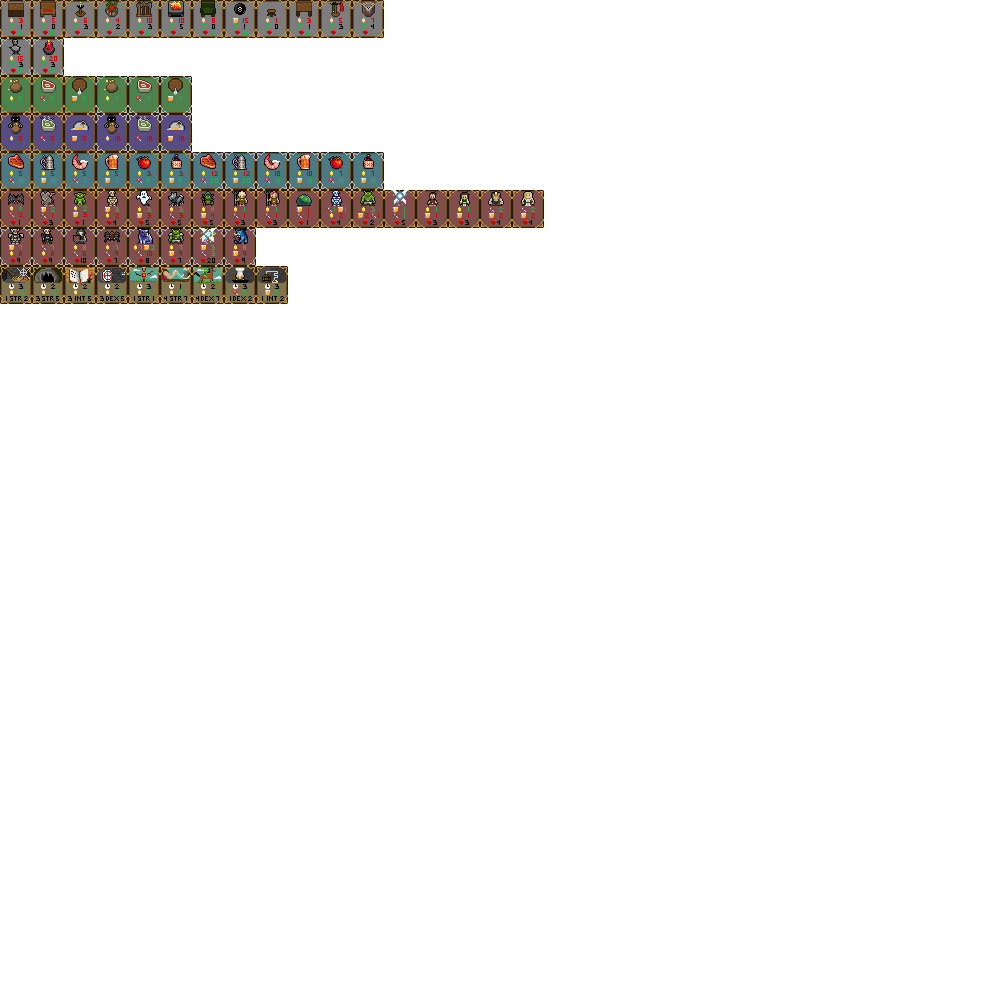
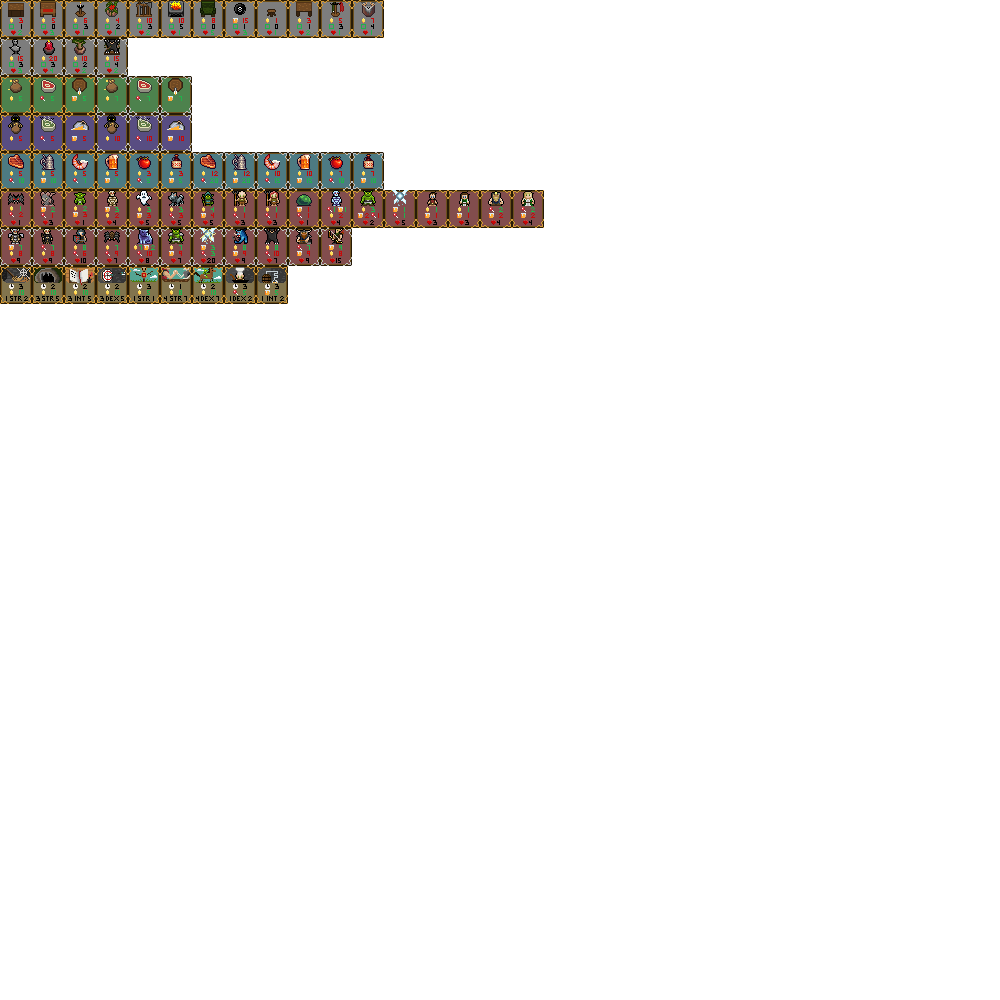
Added More Uncommon Content

Changed region(s): [[0.248, 0.217, 0.372, 0.279], [0.062, 0.031, 0.124, 0.093]]

diff --git a/db.js b/db.js
@@ -12,7 +12,9 @@ var OBJECTSPRITES = {
     "coatrack" : new Vector2D(10,0),
     "jackalope" : new Vector2D(11,0),
     "bust" : new Vector2D(0,1),
-    "darkcandle" : new Vector2D(1,1)
+    "darkcandle" : new Vector2D(1,1),
+    "bonsaitree" : new Vector2D(2,1),
+    "mountedbear" : new Vector2D(3,1)
 }
 
 var BUFFCURSESPRITES = {
@@ -70,7 +72,10 @@ var CHARCARDSPRITES = {
     "icebeast" : new Vector2D(4,6),
     "orcwarrior" : new Vector2D(5,6),
     "greaterwillowisp" : new Vector2D(6,6),
-    "trollberserker" : new Vector2D(7,6)
+    "trollberserker" : new Vector2D(7,6),
+    "blackbear" : new Vector2D(8,6),
+    "dwarfwarrior" : new Vector2D(9,6),
+    "elfarcher" : new Vector2D(10,6)
 }
 
 var QUESTCARDSPRITES = {
@@ -363,6 +368,12 @@ class Database
         this.objectCardsUncommon.push(new ObjectCard(OBJECTSPRITES["darkcandle"].x, OBJECTSPRITES["darkcandle"].y,
                                             OBJECTSPRITES["darkcandle"].x, OBJECTSPRITES["darkcandle"].y, 4, 3, false, "#b60c1e33",
                                             new ResourceUpkeep(this.gold, -20), "The Dark Candle!!"));
+        this.objectCardsUncommon.push(new ObjectCard(OBJECTSPRITES["bonsaitree"].x, OBJECTSPRITES["bonsaitree"].y,
+                                            OBJECTSPRITES["bonsaitree"].x, OBJECTSPRITES["bonsaitree"].y, 2, 2, false, undefined,
+                                            new ResourceUpkeep(this.gold, -10), "Mounted Bear"));
+        this.objectCardsUncommon.push(new ObjectCard(OBJECTSPRITES["mountedbear"].x, OBJECTSPRITES["mountedbear"].y,
+                                            OBJECTSPRITES["mountedbear"].x, OBJECTSPRITES["mountedbear"].y, 2, 4, false, undefined,
+                                            new ResourceUpkeep(this.gold, -15), "Mounted Bear"));
     }
 
     LoadbuffCardsCommon()
@@ -531,6 +542,18 @@ class Database
                                               CHARCARDSPRITES["trollberserker"].x, CHARCARDSPRITES["trollberserker"].y, 9, 
                                               [ new ResourceUpkeep(this.beer, -9), new ResourceUpkeep(this.gold, 8) ], "Troll Berserker",
                                               new CharacterStats(1,3,5)));
+        this.charCardsUncommon.push(new CharacterCard(CHARCARDSPRITES["blackbear"].x, CHARCARDSPRITES["blackbear"].y,
+                                              CHARCARDSPRITES["blackbear"].x, CHARCARDSPRITES["blackbear"].y, 7, 
+                                              [ new ResourceUpkeep(this.food, -10), new ResourceUpkeep(this.gold, 8) ], "Black Bear",
+                                              new CharacterStats(2,4,2)));
+        this.charCardsUncommon.push(new CharacterCard(CHARCARDSPRITES["dwarfwarrior"].x, CHARCARDSPRITES["dwarfwarrior"].y,
+                                              CHARCARDSPRITES["dwarfwarrior"].x, CHARCARDSPRITES["dwarfwarrior"].y, 9, 
+                                              [ new ResourceUpkeep(this.beer, -9), new ResourceUpkeep(this.food, 7) ], "Dwarf Warrior",
+                                              new CharacterStats(1,4,2)));
+        this.charCardsUncommon.push(new CharacterCard(CHARCARDSPRITES["elfarcher"].x, CHARCARDSPRITES["elfarcher"].y,
+                                              CHARCARDSPRITES["elfarcher"].x, CHARCARDSPRITES["elfarcher"].y, 15, 
+                                              [ new ResourceUpkeep(this.gold, -8), new ResourceUpkeep(this.beer, 9) ], "Elven Archer",
+                                              new CharacterStats(1,1,5)));
                                               
     }
 
